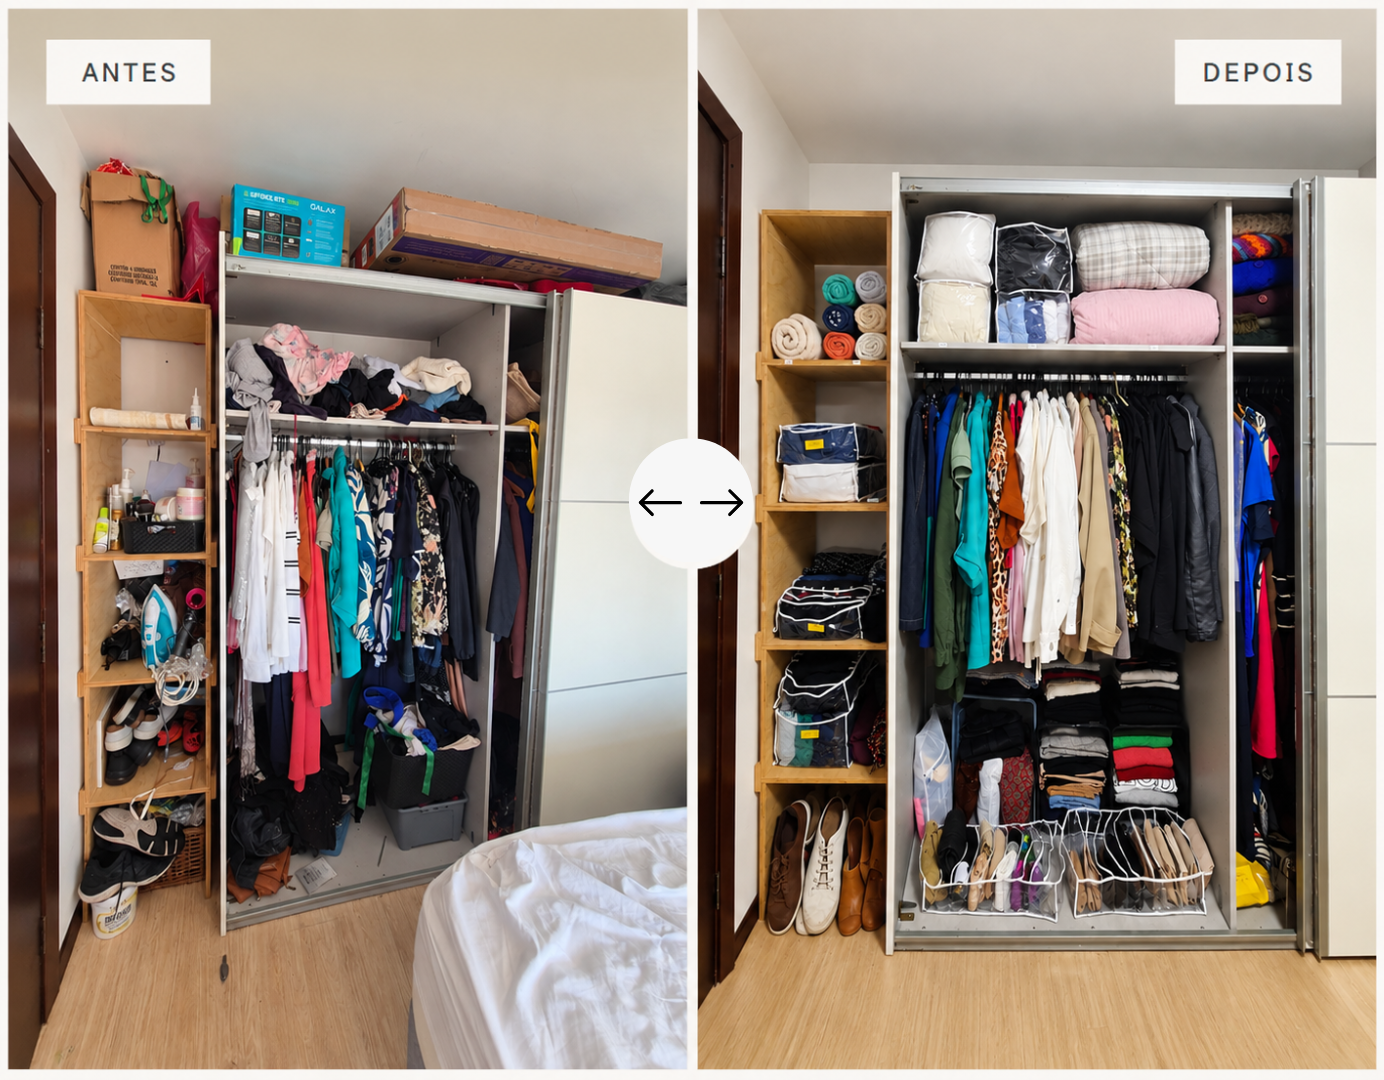
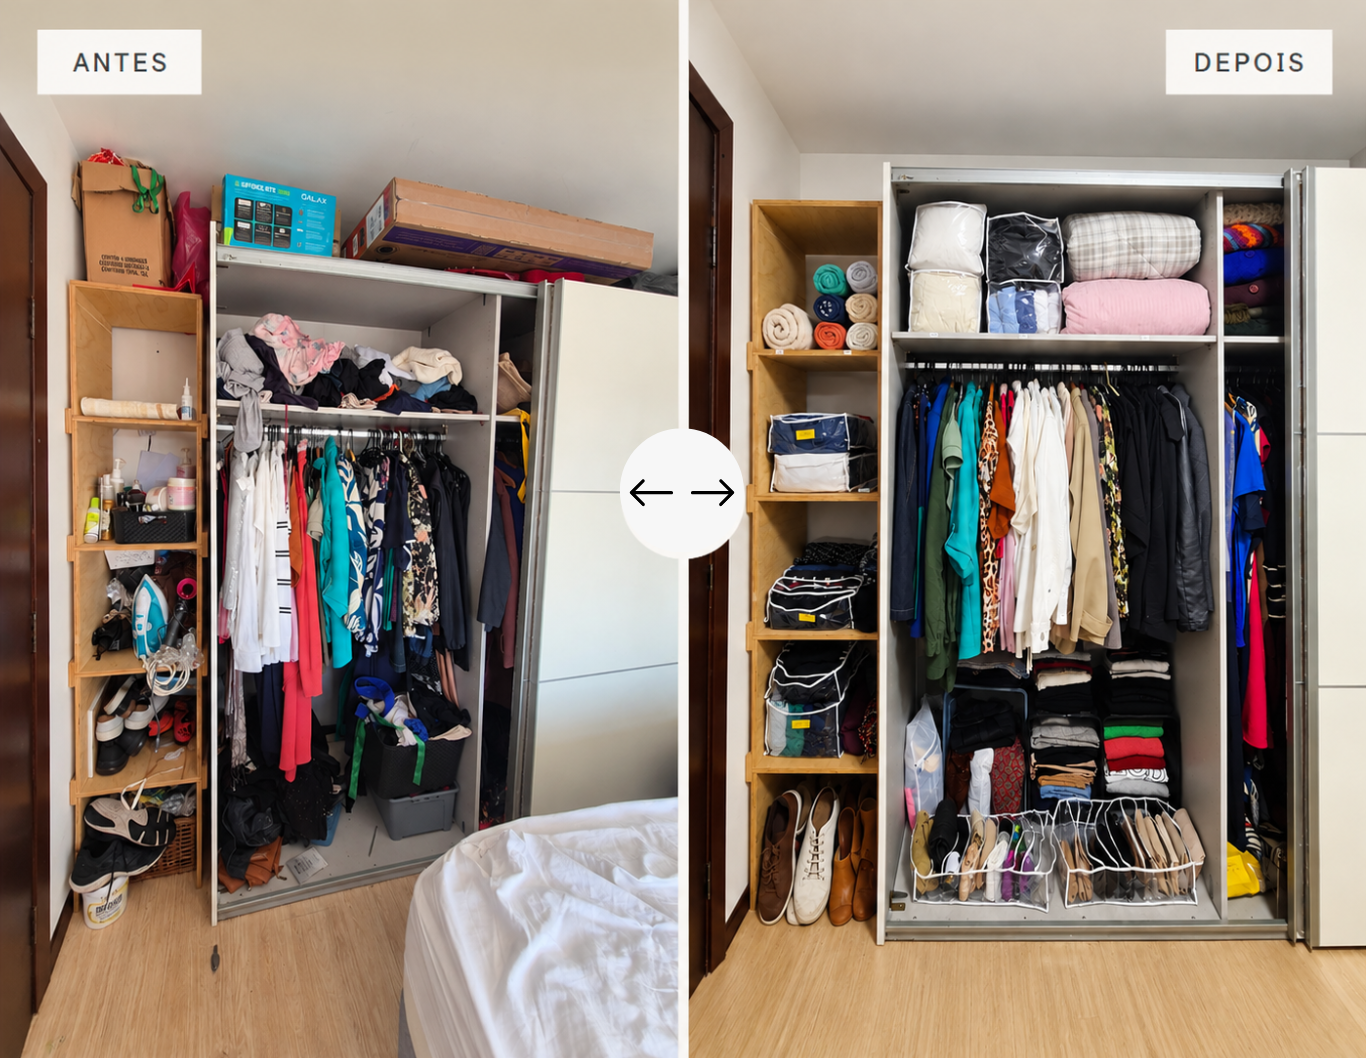
Add files via upload

diff --git a/index.html b/index.html
@@ -177,7 +177,7 @@
   .ba-hint { font-family:var(--mono); font-size:11px; letter-spacing:.12em; text-transform:uppercase; color:var(--ink-muted); }
   .ad-grid { display:grid; grid-template-columns:repeat(2,minmax(0,1fr)); gap:clamp(20px,2.5vw,36px); align-items:start; }
   .ad { margin:0; display:flex; flex-direction:column; gap:12px; }
-  .ad img { width:100%; height:auto; display:block; }
+  .ad img { width:100%; height:auto; aspect-ratio:1366/1058; object-fit:cover; display:block; }
   .ad figcaption { font-size:14px; color:var(--ink-muted); }
   .ad figcaption strong { color:var(--ink); font-weight:600; }
   @media (max-width:820px) { .ad-grid { grid-template-columns:1fr; } }
